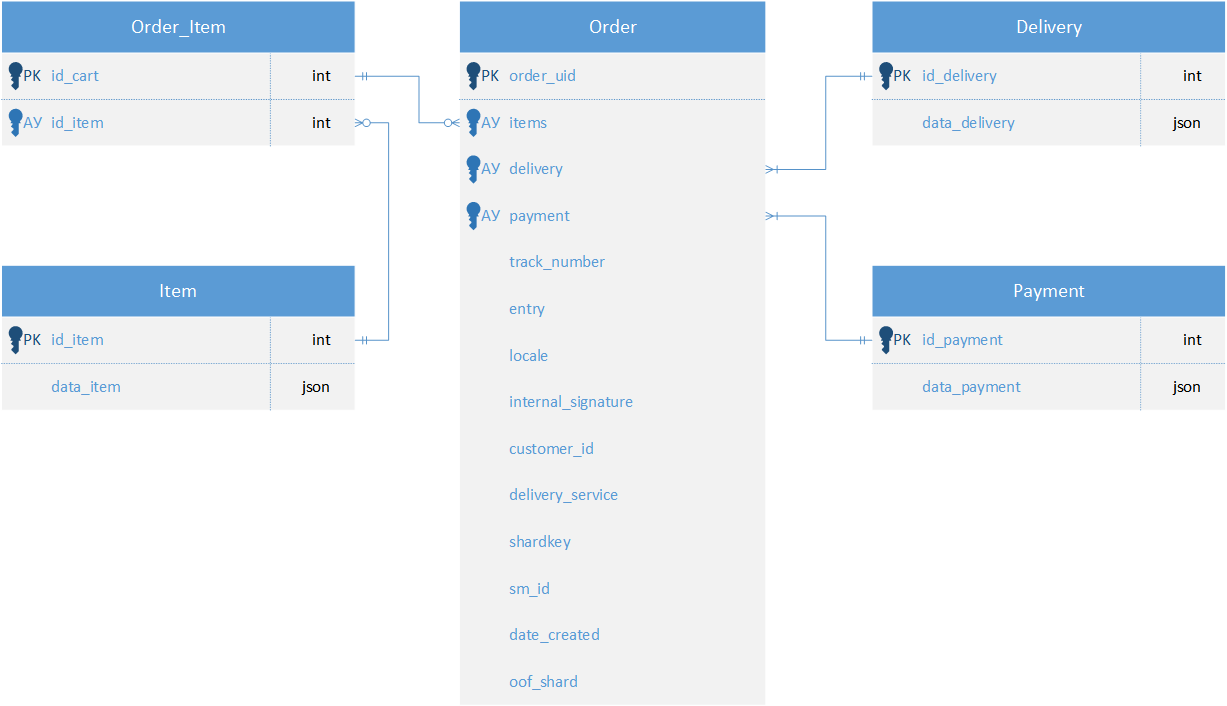
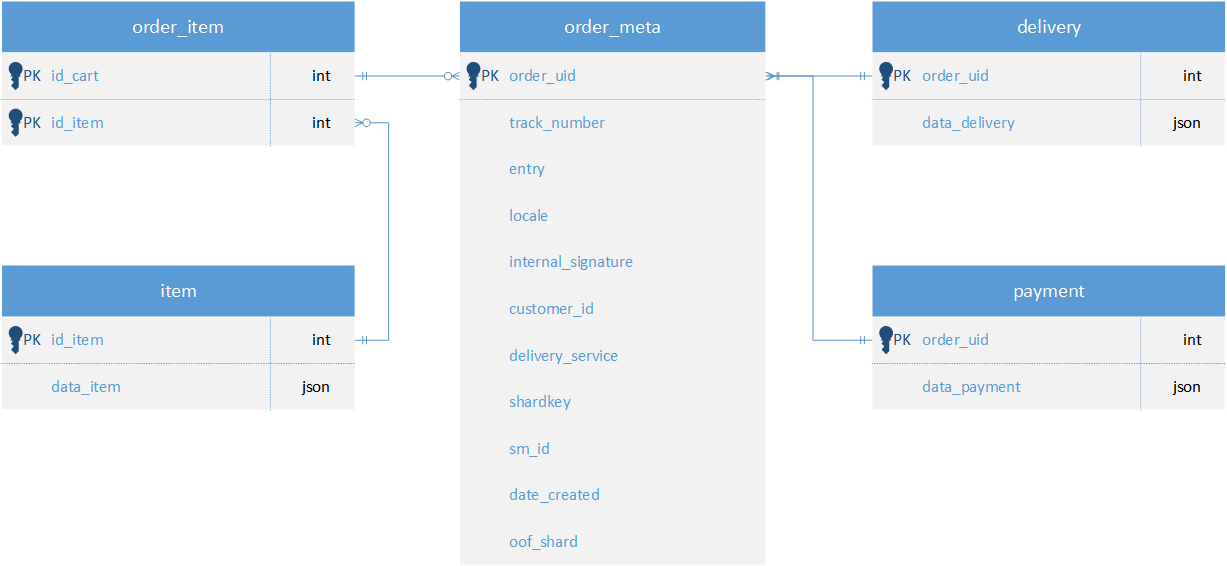
add db tables init

diff --git a/App/db/model.go b/App/db/model.go
@@ -7,12 +7,77 @@ import (
 	_ "github.com/lib/pq"
 )
 
-func NewEngine(User_name, User_pass, Db_name string) *sql.DB {
-	сonnStr := fmt.Sprintf("user=%s password=%s dbname=%s sslmode=disable options='--client_encoding=UTF8'", User_name, User_pass, Db_name)
+const (
+	createOrderMeta = `
+CREATE TABLE IF NOT EXISTS order_meta (
+    order_uid SERIAL PRIMARY KEY,
+    track_number VARCHAR(255) NOT NULL,
+    entry VARCHAR(255) NOT NULL,
+    locale VARCHAR(255),
+    internal_signature VARCHAR(255),
+    customer_id VARCHAR(255) NOT NULL,
+    delivery_service VARCHAR(255),
+    shardkey VARCHAR(255),
+    sm_id INT,
+    date_created VARCHAR(255),
+    oof_shard VARCHAR(255)
+);`
 
-	db, err := sql.Open("postgres", сonnStr)
+	createDelivery = `
+CREATE TABLE IF NOT EXISTS delivery (
+    order_uid SERIAL PRIMARY KEY,
+	FOREIGN KEY (order_uid) REFERENCES order_meta(order_uid),
+    data_delivery JSON NOT NULL
+);`
+
+	createPayment = `
+CREATE TABLE IF NOT EXISTS payment (
+    order_uid SERIAL PRIMARY KEY,
+	FOREIGN KEY (order_uid) REFERENCES order_meta(order_uid),
+    data_payment JSON NOT NULL
+);`
+
+	createOrderItem = `
+CREATE TABLE IF NOT EXISTS order_item (
+    id_cart INTEGER REFERENCES order_meta(order_uid),
+	id_item INTEGER REFERENCES item(id_item),
+	PRIMARY KEY (id_cart, id_item)
+);`
+
+	createItem = `
+CREATE TABLE IF NOT EXISTS item (
+    id_item SERIAL PRIMARY KEY,
+    data_item JSON NOT NULL
+);`
+)
+
+func NewEngine(User_name, User_pass, Db_name string) Engine {
+	connStr := fmt.Sprintf("user=%s password=%s dbname=%s sslmode=disable options='--client_encoding=UTF8'", User_name, User_pass, Db_name)
+
+	db, err := sql.Open("postgres", connStr)
 	if err != nil {
+		err = fmt.Errorf("[Error] Cannot connect to db. connStr=%s Reason:\n%w", connStr, err)
 		panic(err)
 	}
-	return db
+	return Engine{db}
+}
+
+type Engine struct {
+	db *sql.DB
+}
+
+func (e *Engine) CreateTables() {
+	declarations := []string{createOrderMeta, createDelivery, createPayment, createOrderItem, createItem}
+
+	for _, declare := range declarations {
+		_, err := e.db.Exec(declare)
+		if err != nil {
+			err = fmt.Errorf(`
+[Error] Failed to create table. Reason:
+%w
+Query: %s`, err, declare)
+			panic(err)
+		}
+	}
+	fmt.Println("[Info] Postgres tables created")
 }

diff --git a/App/main.go b/App/main.go
@@ -28,12 +28,9 @@ func main() {
 	defer conn.Close()
 	defer sc.Close()
 
-	// Работа с БД
+	// Инициализация БД
 	engine := db.NewEngine(User_name, User_pass, Db_name)
-	row := engine.QueryRow("SELECT 1")
-	var test int
-	row.Scan(&test)
-	fmt.Printf("[Ахтунг] База робит %d\n", test)
+	engine.CreateTables()
 
 	// Завершение работы по прерыванию
 	sigs := make(chan os.Signal, 1)
